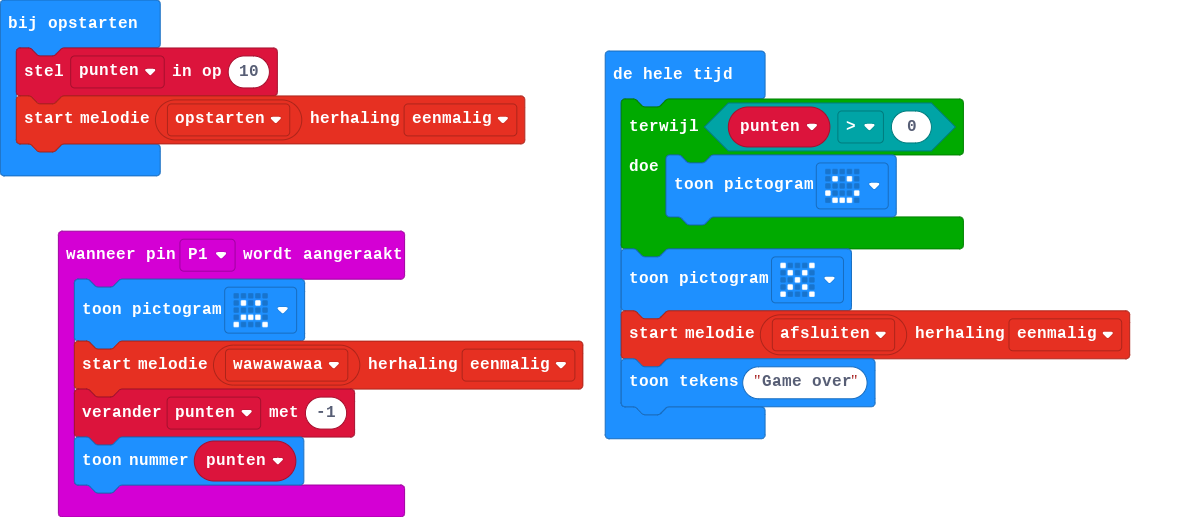
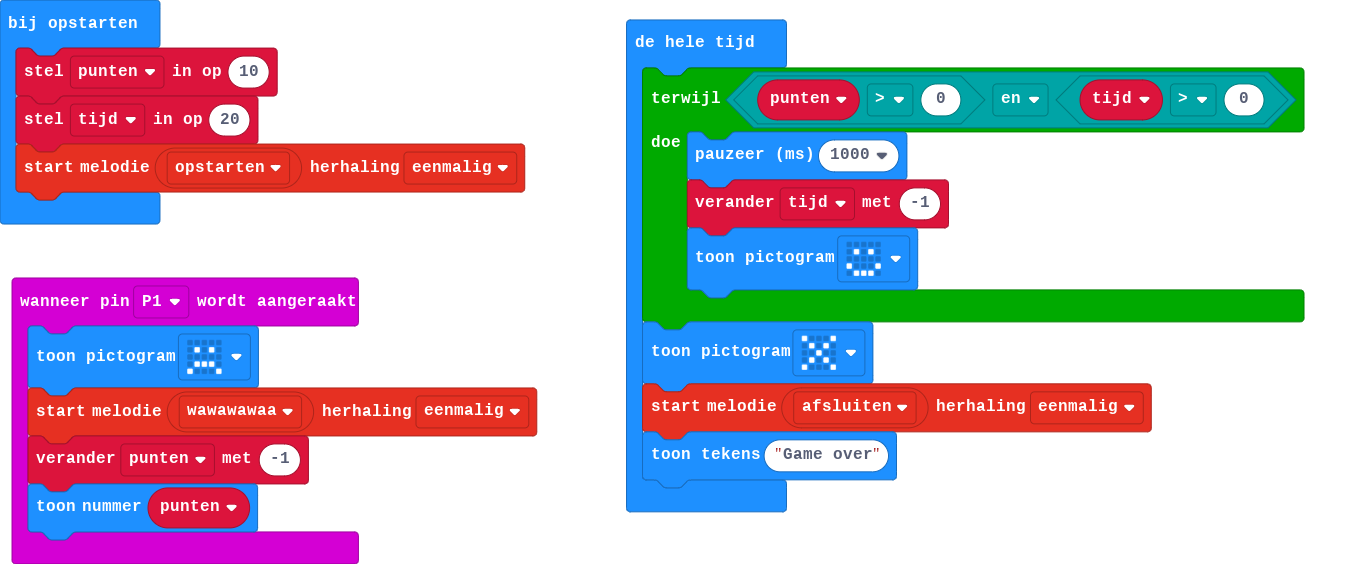
pxt.json, main.blocks, main.ts bijwerken

diff --git a/main.ts b/main.ts
@@ -6,9 +6,12 @@ input.onPinPressed(TouchPin.P1, function () {
 })
 let punten = 0
 punten = 10
+let tijd = 20
 music.startMelody(music.builtInMelody(Melodies.PowerUp), MelodyOptions.Once)
 basic.forever(function () {
-    while (punten > 0) {
+    while (punten > 0 && tijd > 0) {
+        basic.pause(1000)
+        tijd += -1
         basic.showIcon(IconNames.Happy)
     }
     basic.showIcon(IconNames.No)
